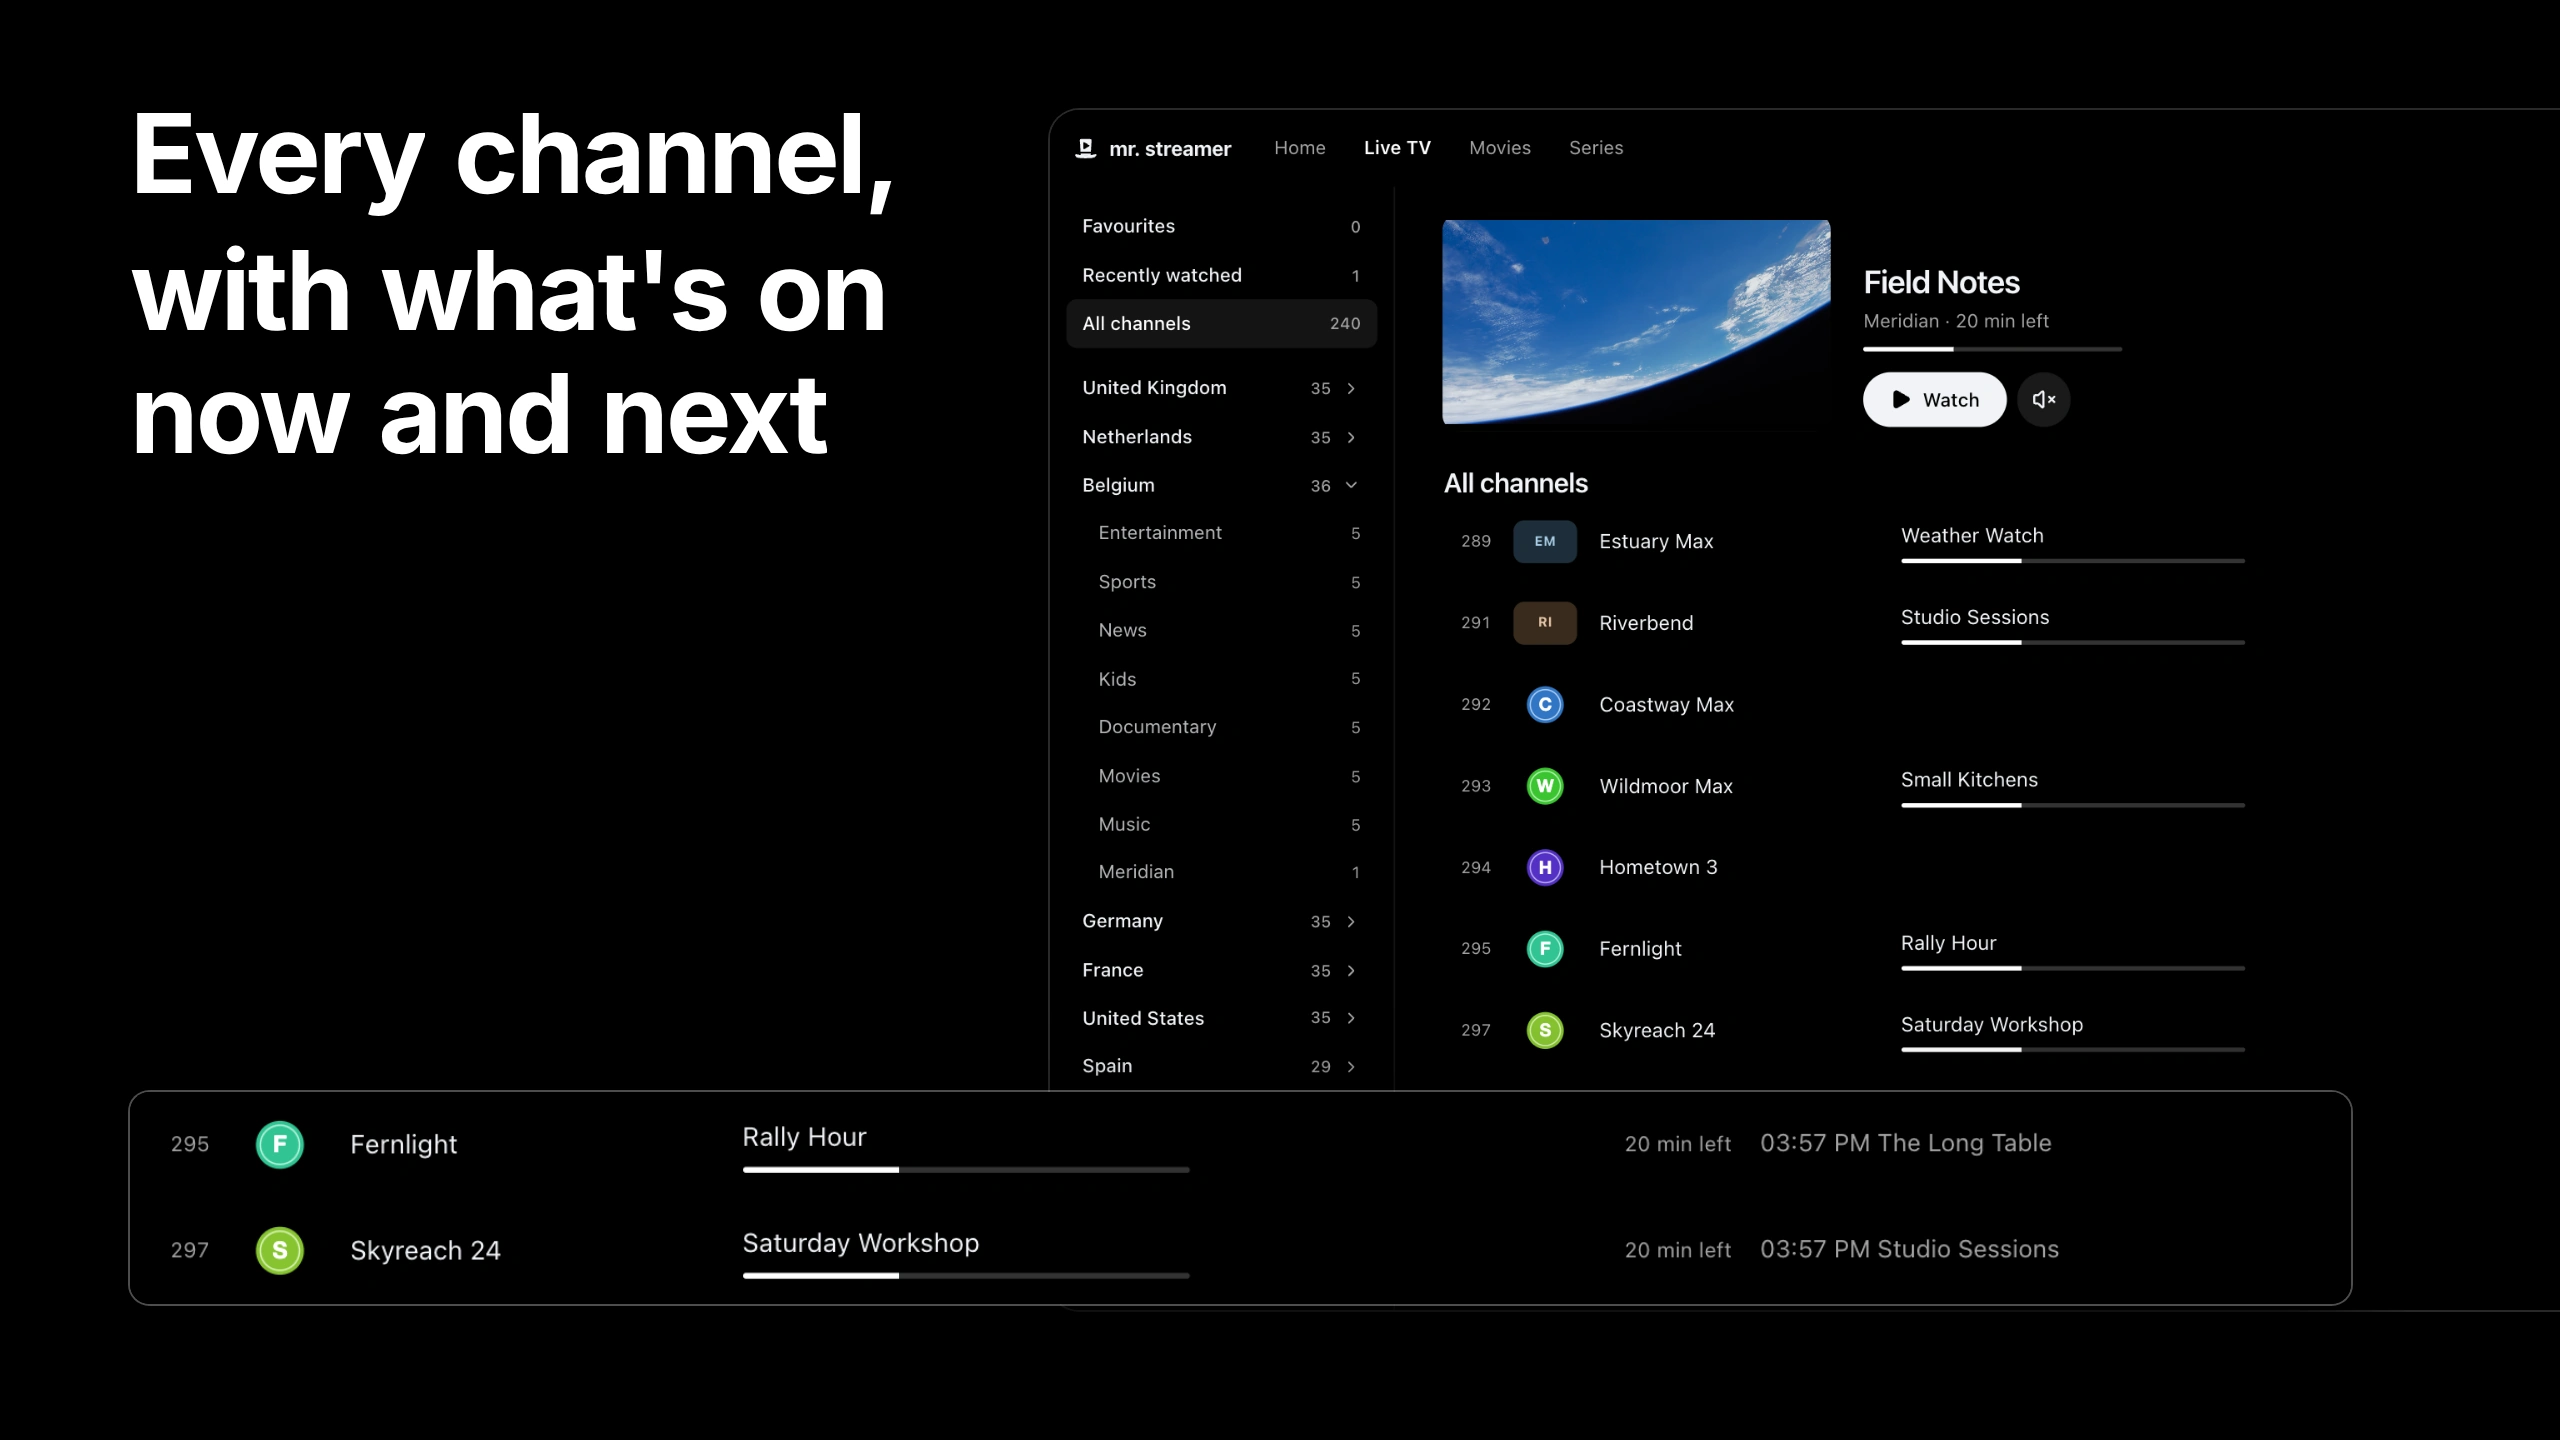
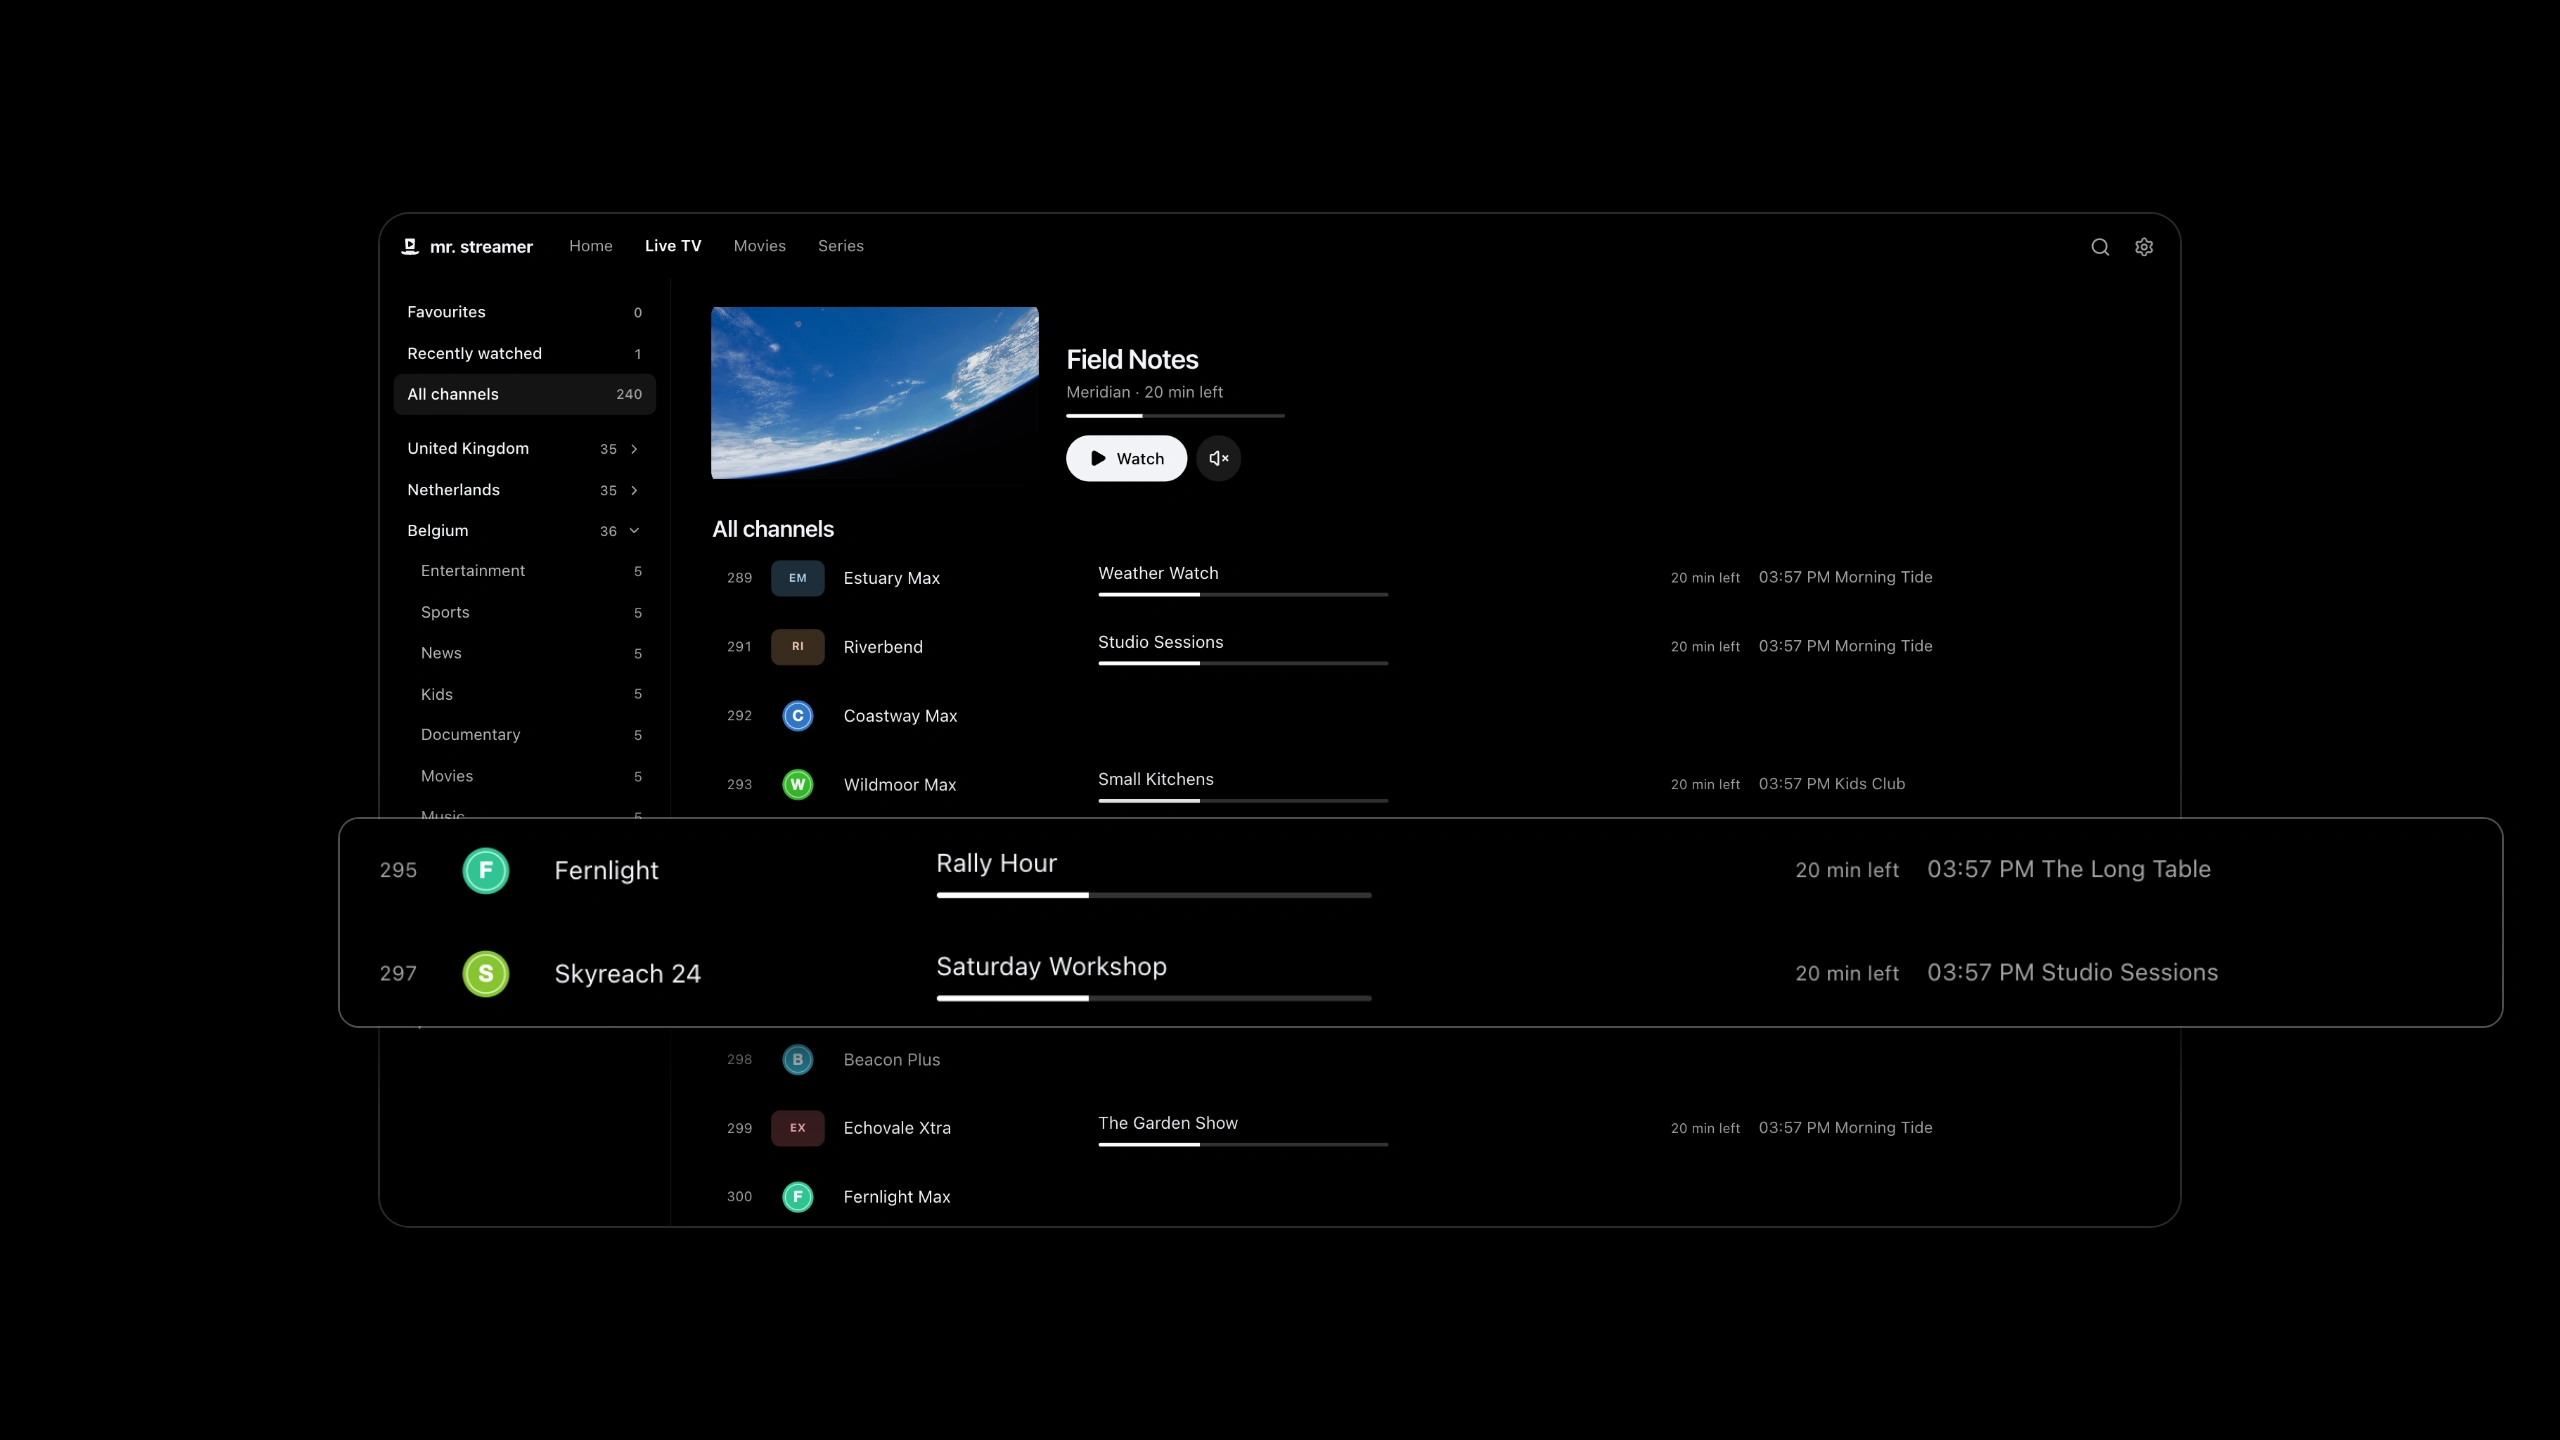
Use the framed pictures with an enlarged detail

diff --git a/docs/contributing/development.md b/docs/contributing/development.md
@@ -67,4 +67,4 @@ Chromium's credits, which hold Node.js's licence too, are 20 MB of HTML from Ele
 - App icons come from `apps/desktop/assets/brand/`; `pnpm --filter mrstreamer icons:export` renders `apps/desktop/build/icon.*` from `icon.svg` and the Store package's logos in `apps/desktop/build/appx` from `mark.svg` ([releasing](../maintainers/releasing.md#microsoft-store-package) lists them).
 - The DMG window background is `apps/desktop/build/dmg-background.png` and its `@2x` twin; `pnpm --filter mrstreamer dmg:background` renders them on a Mac, so the text uses the system font.
 - The README banner, `docs/assets/banner.png`, is 2560 × 800 for sharp screens: the mark and name, in Inter, beside Home, captured from a development build on a Mac in full screen against the fake provider with made-up channels, programmes and titles. The pictures playing in it are public domain: NASA's views of Earth from the space station on the live channel, and the U.S. National Park Service's Grand Canyon footage for the series being watched. Never use a provider's catalogue, real posters or anything not free to use worldwide in it.
-- The README's pictures, `docs/assets/live-tv.webp`, `details.webp` and `watching.webp`, are 2560 × 1440 compositions on true black: a heading in Inter, the app window running off the right edge, and one detail of it enlarged. The windows are captures of a development build in the same way: the fake provider with its guide, a TMDB stand-in answering with made-up names, stories and people, and the same public-domain NASA and National Park Service footage as the banner. Only what the app shows goes in them, and the same rule holds: nothing from a real provider, film or person.
+- The README's pictures, `docs/assets/live-tv.webp`, `details.webp` and `watching.webp`, are 2560 × 1440 compositions on true black: the app window straight on with a thin border, and one detail of it enlarged over it. The windows are captures of a development build in the same way: the fake provider with its guide, a TMDB stand-in answering with made-up names, stories and people, and the same public-domain NASA and National Park Service footage as the banner. Only what the app shows goes in them, and the same rule holds: nothing from a real provider, film or person.

diff --git a/README.md b/README.md
@@ -15,15 +15,21 @@
 
 <p align="center"><strong><a href="https://github.com/Mr-Streamer-OSS/MrStreamer/releases/latest">Download for macOS, Windows or Linux</a></strong></p>
 
-<img src="docs/assets/live-tv.webp" alt="Every channel, with what's on now and next: Live TV with its guide" width="100%">
+### Every channel, with what's on now and next
+
+<img src="docs/assets/live-tv.webp" alt="Live TV: channels with what's on now and next" width="100%">
 
 A programme guide, favourites, and the channels you watched last.
 
-<img src="docs/assets/details.webp" alt="Each film once, in your language: a title's details with Play and its sound language" width="100%">
+### Each film once, in your language
+
+<img src="docs/assets/details.webp" alt="A title's details: its story, cast and episodes, with Play and its sound language" width="100%">
 
 Stories, artwork and cast, with resume and the next episode.
 
-<img src="docs/assets/watching.webp" alt="Sound and subtitles, your way: a series playing with the subtitle menu" width="100%">
+### Sound and subtitles, your way
+
+<img src="docs/assets/watching.webp" alt="A series playing with English subtitles, and the subtitle menu" width="100%">
 
 Every track your provider sends, on live channels and on demand.
 
